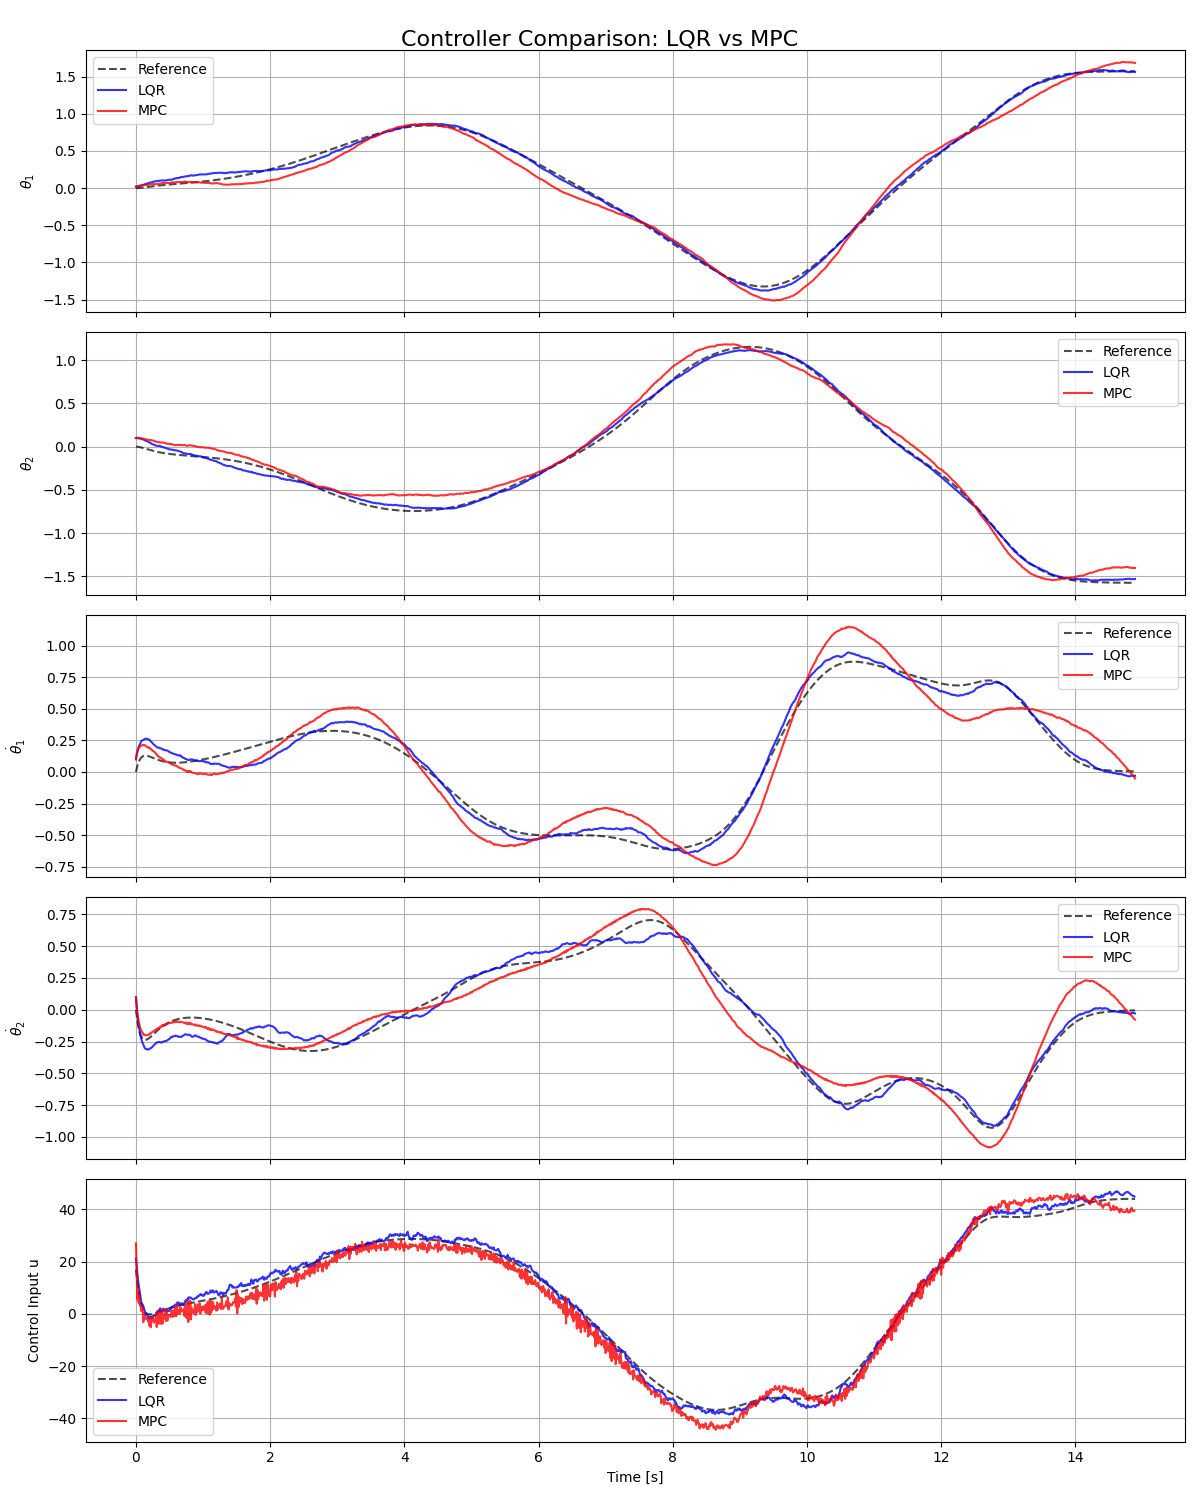
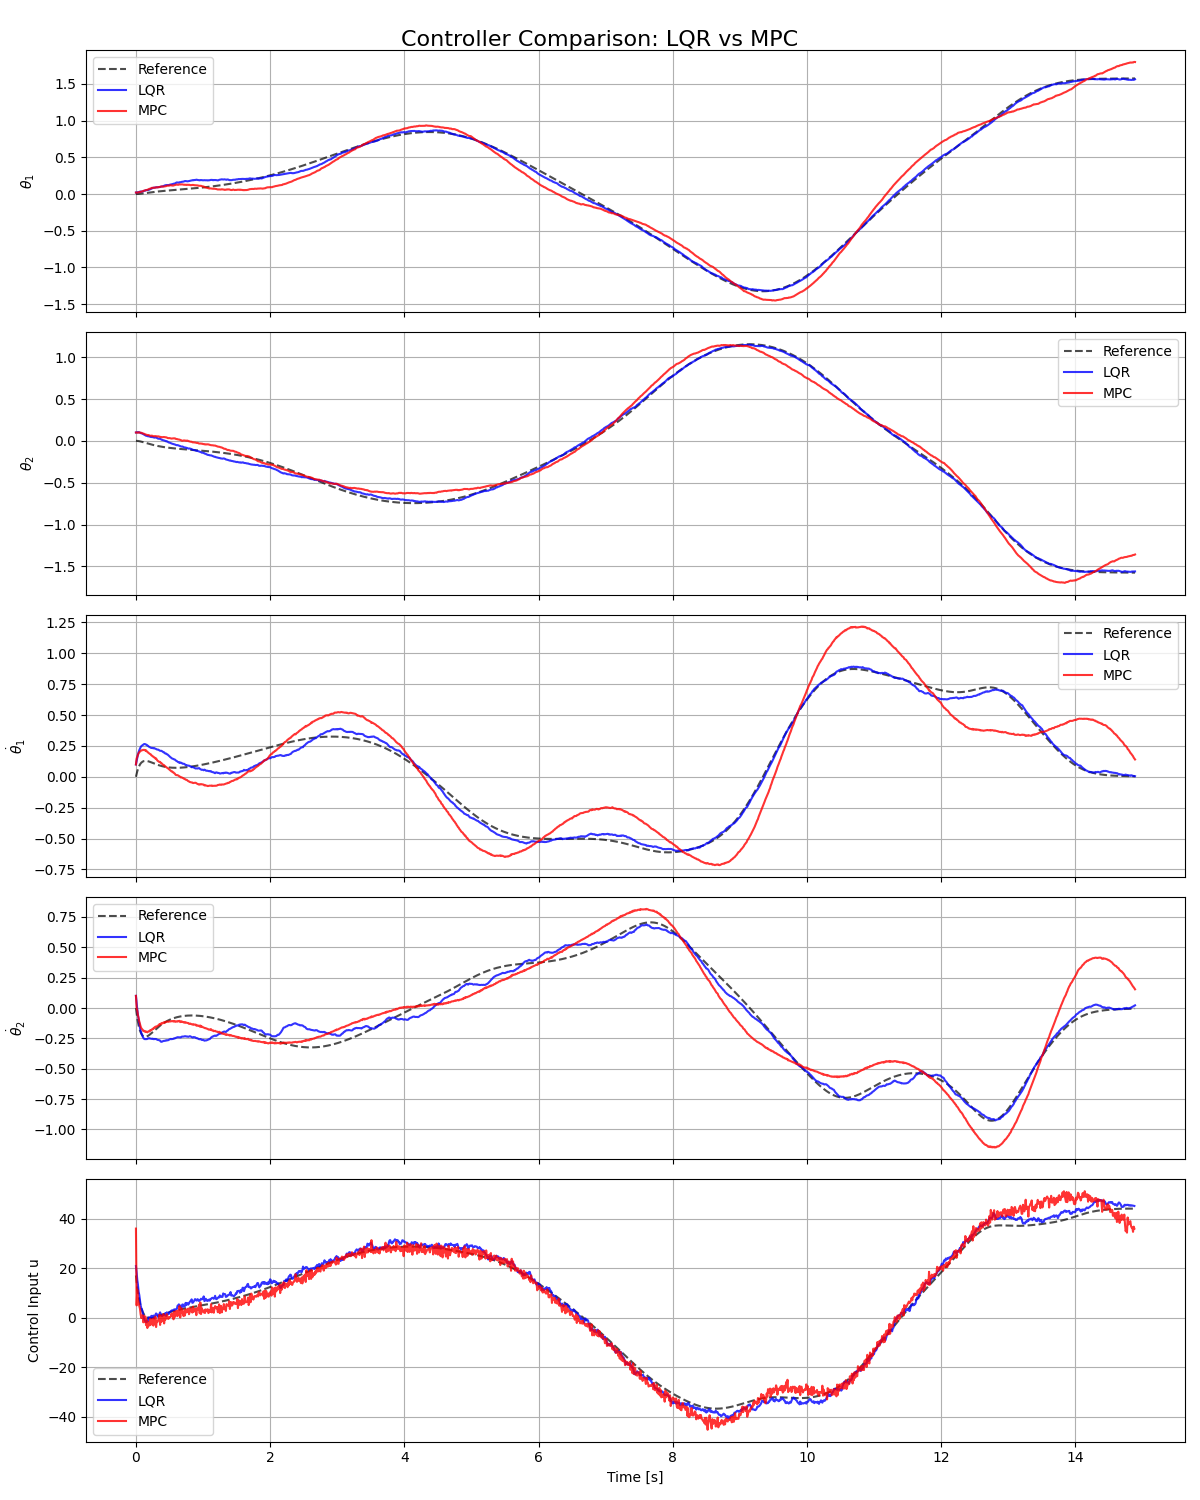
plot

diff --git a/scripts/task3_4.py b/scripts/task3_4.py
@@ -9,7 +9,7 @@ from dynamics import FlexibleRoboticArm
 from newton import NewtonOptimizer
 from animate import FlexibleRobotAnimator
 from parameters import (
-    m1, m2, l1, l2, r1, r2, I1, I2, g, f1, f2, dt, ns, ni, Q3, R3, QT3, Q4, R4, N4
+    m1, m2, l1, l2, r1, r2, I1, I2, g, f1, f2, dt, ns, ni, Q3, R3, QT3, Q4, R4, QT4, N4
     )
 
 # Configure CVXOPT solver
@@ -91,78 +91,138 @@ class LQRController(ControllerBase):
         return xx, uu
 
 class MPCController(ControllerBase):
-    """MPC Controller Implementation"""
+    """MPC Controller Implementation – versione migliorata con costo sullo stato esplicito."""
     def __init__(self, arm: FlexibleRoboticArm, Q: np.ndarray, R: np.ndarray, N: int,
-                 u_min: float = -10.0, u_max: float = 10.0):
+                 Qf: np.ndarray = None, u_min: float = -60.0, u_max: float = 60.0):
+        """
+        :param Q: Matrice di costo sullo stato (stadio)
+        :param R: Matrice di costo sull'input
+        :param N: Lunghezza dell'orizzonte predittivo
+        :param Qf: Matrice di costo terminale (se None, si usa Q)
+        """
         super().__init__(arm)
         self.Q = Q
         self.R = R
         self.N = N
+        self.Qf = Qf if Qf is not None else Q  # costo terminale
         self.u_min = u_min
         self.u_max = u_max
 
     def formulate_qp_matrices(self, AA: np.ndarray, BB: np.ndarray, x0: np.ndarray) -> Tuple[np.ndarray, np.ndarray]:
-        """Formulate matrices for quadratic programming problem"""
-        P = np.zeros((self.N * self.ni, self.N * self.ni))
-        q = np.zeros((self.N * self.ni, 1))
-        
-        # Build cost matrices
-        for i in range(self.N):
-            P[i*self.ni:(i+1)*self.ni, i*self.ni:(i+1)*self.ni] = self.R
-            x_pred = x0.copy()
-            for j in range(i):
-                x_pred = AA[:, :, j] @ x_pred
-            q[i*self.ni:(i+1)*self.ni] = 2 * BB[:, :, i].T @ self.Q @ x_pred
+        """
+        Costruisce le matrici Hessiana H e il vettore lineare f per il QP
+        considerando il costo:
+            J = sum_{i=0}^{N-1} [ x_{i+1}^T Q x_{i+1} + u_i^T R u_i ] + x_{N+1}^T Qf x_{N+1}
+        con la dinamica predittiva:
+            x_{i+1} = A_i x_i + B_i u_i.
+        Eliminando le variabili di stato, si ricava una formulazione in funzione di U = [u0, ..., u_{N-1}].
+        """
+        m = self.ni
+        n = self.ns
+        N = self.N
 
-        return P, q
+        # Calcola la traiettoria nominale propagando x0 con u=0.
+        x_nom = np.zeros((n, N+1))
+        x_nom[:, 0] = x0
+        for i in range(N):
+            x_nom[:, i+1] = AA[:, :, i] @ x_nom[:, i]
+
+        # Costruzione delle matrici di sensibilità S_i tali che:
+        #   x_i = x_nom[:, i] + S_i * U,
+        # dove U è il vettore impilato degli input.
+        S = []
+        for i in range(N+1):
+            S_i = np.zeros((n, N * m))
+            # Per ogni controllo u_j che influenza x_i (con j = 0,..., i-1)
+            for j in range(i):
+                prod = np.eye(n)
+                # Prodotto dei Jacobiani A per passare da u_j a x_i:
+                for k in range(j, i):
+                    prod = AA[:, :, k] @ prod
+                # Inserisce il contributo di u_j nelle colonne corrispondenti
+                S_i[:, j*m:(j+1)*m] = prod @ BB[:, :, j]
+            S.append(S_i)
+
+        # Inizializza Hessiana H e vettore f (nota: il costo è espresso come  U^T H U + 2 f^T U)
+        H = np.zeros((N * m, N * m))
+        f = np.zeros((N * m, 1))
+
+        # Accumula il costo stage per i passi 1,...,N-1
+        for i in range(1, N):
+            H += S[i].T @ self.Q @ S[i]
+            f += S[i].T @ (2 * self.Q @ x_nom[:, i]).reshape(-1, 1)
+        # Aggiunge il costo terminale al passo N
+        H += S[N].T @ self.Qf @ S[N]
+        f += S[N].T @ (2 * self.Qf @ x_nom[:, N]).reshape(-1, 1)
+
+        # Aggiunge il costo sull'input per ogni istante
+        for i in range(N):
+            idx = slice(i * m, (i+1) * m)
+            H[idx, idx] += self.R
+
+        return H, f
 
     def formulate_constraints(self) -> Tuple[np.ndarray, np.ndarray]:
-        """Formulate constraint matrices for input bounds"""
-        G = np.zeros((2 * self.N * self.ni, self.N * self.ni))
-        h = np.zeros(2 * self.N * self.ni)
+        """
+        Formulazione dei vincoli sugli input.
+        Si costruiscono le matrici G e il vettore h tali che:
+            G * U <= h,
+        per imporre u_min <= u_i <= u_max per i = 0,...,N-1.
+        """
+        m = self.ni
+        N = self.N
+        G = np.zeros((2 * N * m, N * m))
+        h = np.zeros(2 * N * m)
         
-        for i in range(self.N):
-            # Upper bound constraints
-            G[i*self.ni:(i+1)*self.ni, i*self.ni:(i+1)*self.ni] = np.eye(self.ni)
-            h[i*self.ni:(i+1)*self.ni] = self.u_max
+        for i in range(N):
+            # Vincolo superiore: u_i <= u_max
+            G[i * m:(i+1) * m, i * m:(i+1) * m] = np.eye(m)
+            h[i * m:(i+1) * m] = self.u_max
             
-            # Lower bound constraints
-            G[self.N*self.ni + i*self.ni:self.N*self.ni + (i+1)*self.ni, 
-              i*self.ni:(i+1)*self.ni] = -np.eye(self.ni)
-            h[self.N*self.ni + i*self.ni:self.N*self.ni + (i+1)*self.ni] = -self.u_min
+            # Vincolo inferiore: -u_i <= -u_min  <=> u_i >= u_min
+            G[N * m + i * m:N * m + (i+1) * m, i * m:(i+1) * m] = -np.eye(m)
+            h[N * m + i * m:N * m + (i+1) * m] = -self.u_min
             
         return G, h
 
     def solve_mpc(self, x0: np.ndarray, AA: np.ndarray, BB: np.ndarray) -> np.ndarray:
-        """Solve MPC optimization problem"""
-        P, q = self.formulate_qp_matrices(AA, BB, x0)
+        """
+        Risolve il QP a orizzonte finito.
+        :param x0: stato iniziale (errore rispetto al riferimento)
+        :param AA: array di matrici A lungo l'orizzonte (dimensione: ns x ns x N)
+        :param BB: array di matrici B lungo l'orizzonte (dimensione: ns x ni x N)
+        :return: Sequenza ottimale degli input (impilati)
+        """
+        H, f = self.formulate_qp_matrices(AA, BB, x0)
         G, h = self.formulate_constraints()
 
-        # Solve QP problem
-        sol = solvers.qp(matrix(P), matrix(q), matrix(G), matrix(h))
+        # CVXOPT richiede le matrici in formato "matrix"
+        sol = solvers.qp(matrix(H), matrix(f), matrix(G), matrix(h))
         
         if sol['status'] != 'optimal':
             raise RuntimeError("MPC QP solver did not converge to optimal solution")
             
-        return np.array(sol['x']).reshape(-1, self.ni)
+        # Restituisce U con dimensione (N, ni)
+        U_opt = np.array(sol['x']).reshape(-1, self.ni)
+        return U_opt
 
     def simulate(self, x_ref: np.ndarray, u_ref: np.ndarray, 
-                disturbances: Dict) -> Tuple[np.ndarray, np.ndarray]:
-        """Simulate system with MPC control"""
-        TT = x_ref.shape[1] - self.N
-        
-        # Initialize trajectories
+                 disturbances: Dict) -> Tuple[np.ndarray, np.ndarray]:
+        """Simula il sistema con controllo MPC"""
+        TT = x_ref.shape[1] - self.N  # si garantisce la disponibilità della linearizzazione per l'intero orizzonte
+
+        # Inizializza le traiettorie
         xx = np.zeros((self.ns, TT))
         uu = np.zeros((self.ni, TT-1))
         
-        # Apply initial condition (with possible perturbation)
+        # Condizione iniziale (con eventuale perturbazione)
         x0_perturb = disturbances.get("x0_perturb", np.zeros(self.ns))
         if disturbances.get("perturbed_state", False):
             xx[:, 0] = x_ref[:, 0] + x0_perturb
         else:
             xx[:, 0] = x_ref[:, 0]
 
-        # Precompute linearization matrices
+        # Pre-calcola le matrici di linearizzazione per l'intera traiettoria richiesta
         AA = np.zeros((self.ns, self.ns, TT + self.N))
         BB = np.zeros((self.ns, self.ni, TT + self.N))
         for t in range(TT + self.N):
@@ -170,23 +230,21 @@ class MPCController(ControllerBase):
             AA[:, :, t] = np.array(A_t, dtype=float)
             BB[:, :, t] = np.array(B_t, dtype=float)
 
-        # MPC simulation loop
+        # Loop di simulazione MPC
         for t in range(TT-1):
-            # Compute state error
+            # Calcola l'errore di stato (si lavora in variabili erroriali rispetto al riferimento)
             x_error = xx[:, t] - x_ref[:, t]
             
-            # Solve MPC problem
-            u_mpc = self.solve_mpc(x_error, 
-                                 AA[:, :, t:t+self.N],
-                                 BB[:, :, t:t+self.N])
+            # Risolve il QP a orizzonte finito
+            U_opt = self.solve_mpc(x_error, AA[:, :, t:t+self.N], BB[:, :, t:t+self.N])
             
-            # Apply first control input
-            uu[:, t] = u_mpc[0] + u_ref[:, t]
+            # Applica il primo comando ottimale, aggiungendolo al riferimento
+            uu[:, t] = U_opt[0] + u_ref[:, t]
             
-            # Simulate system
+            # Evolvi la dinamica del sistema
             xx[:, t+1] = self.arm.discrete_dynamics(xx[:, t], uu[:, t])
             
-            # Add noise if specified
+            # Aggiungi rumore se specificato
             if disturbances.get("gaussian_noise", False):
                 noise = np.random.normal(
                     disturbances.get("gaussian_mean", 0),
@@ -196,6 +254,7 @@ class MPCController(ControllerBase):
                 xx[:, t+1] += noise
 
         return xx, uu
+
 
 class SimulationManager:
     """Manages simulation execution and results visualization"""
@@ -217,7 +276,8 @@ class SimulationManager:
             self.arm,
             Q=Q4,
             R=R4,
-            N=N4
+            N=N4,
+            Qf=QT4
         )
         
         # Run simulations

diff --git a/scripts/parameters.py b/scripts/parameters.py
@@ -30,11 +30,12 @@ R2 = 0.0005*np.eye(1)
 QT2 = None
 
 # LQR
-Q3 = np.diag([15.0, 15.0, 1.0, 1.0])
+Q3 = np.diag([20.0, 20.0, 1.0, 1.0])
 R3 = 0.0005 * np.eye(1)
 QT3 = np.diag([20.0, 20.0, 1.0, 1.0])
 
 # MPC
-Q4 = np.diag([30.0, 30.0, 1.0, 1.0])
-R4 = 0.00001 * np.eye(1)
+Q4 = np.diag([100.0, 100.0, 100.0, 100.0])
+R4 = 0.0005 * np.eye(1)
 N4 = 10
+QT4 = np.diag([100.0, 100.0, 100.0, 100.0])
